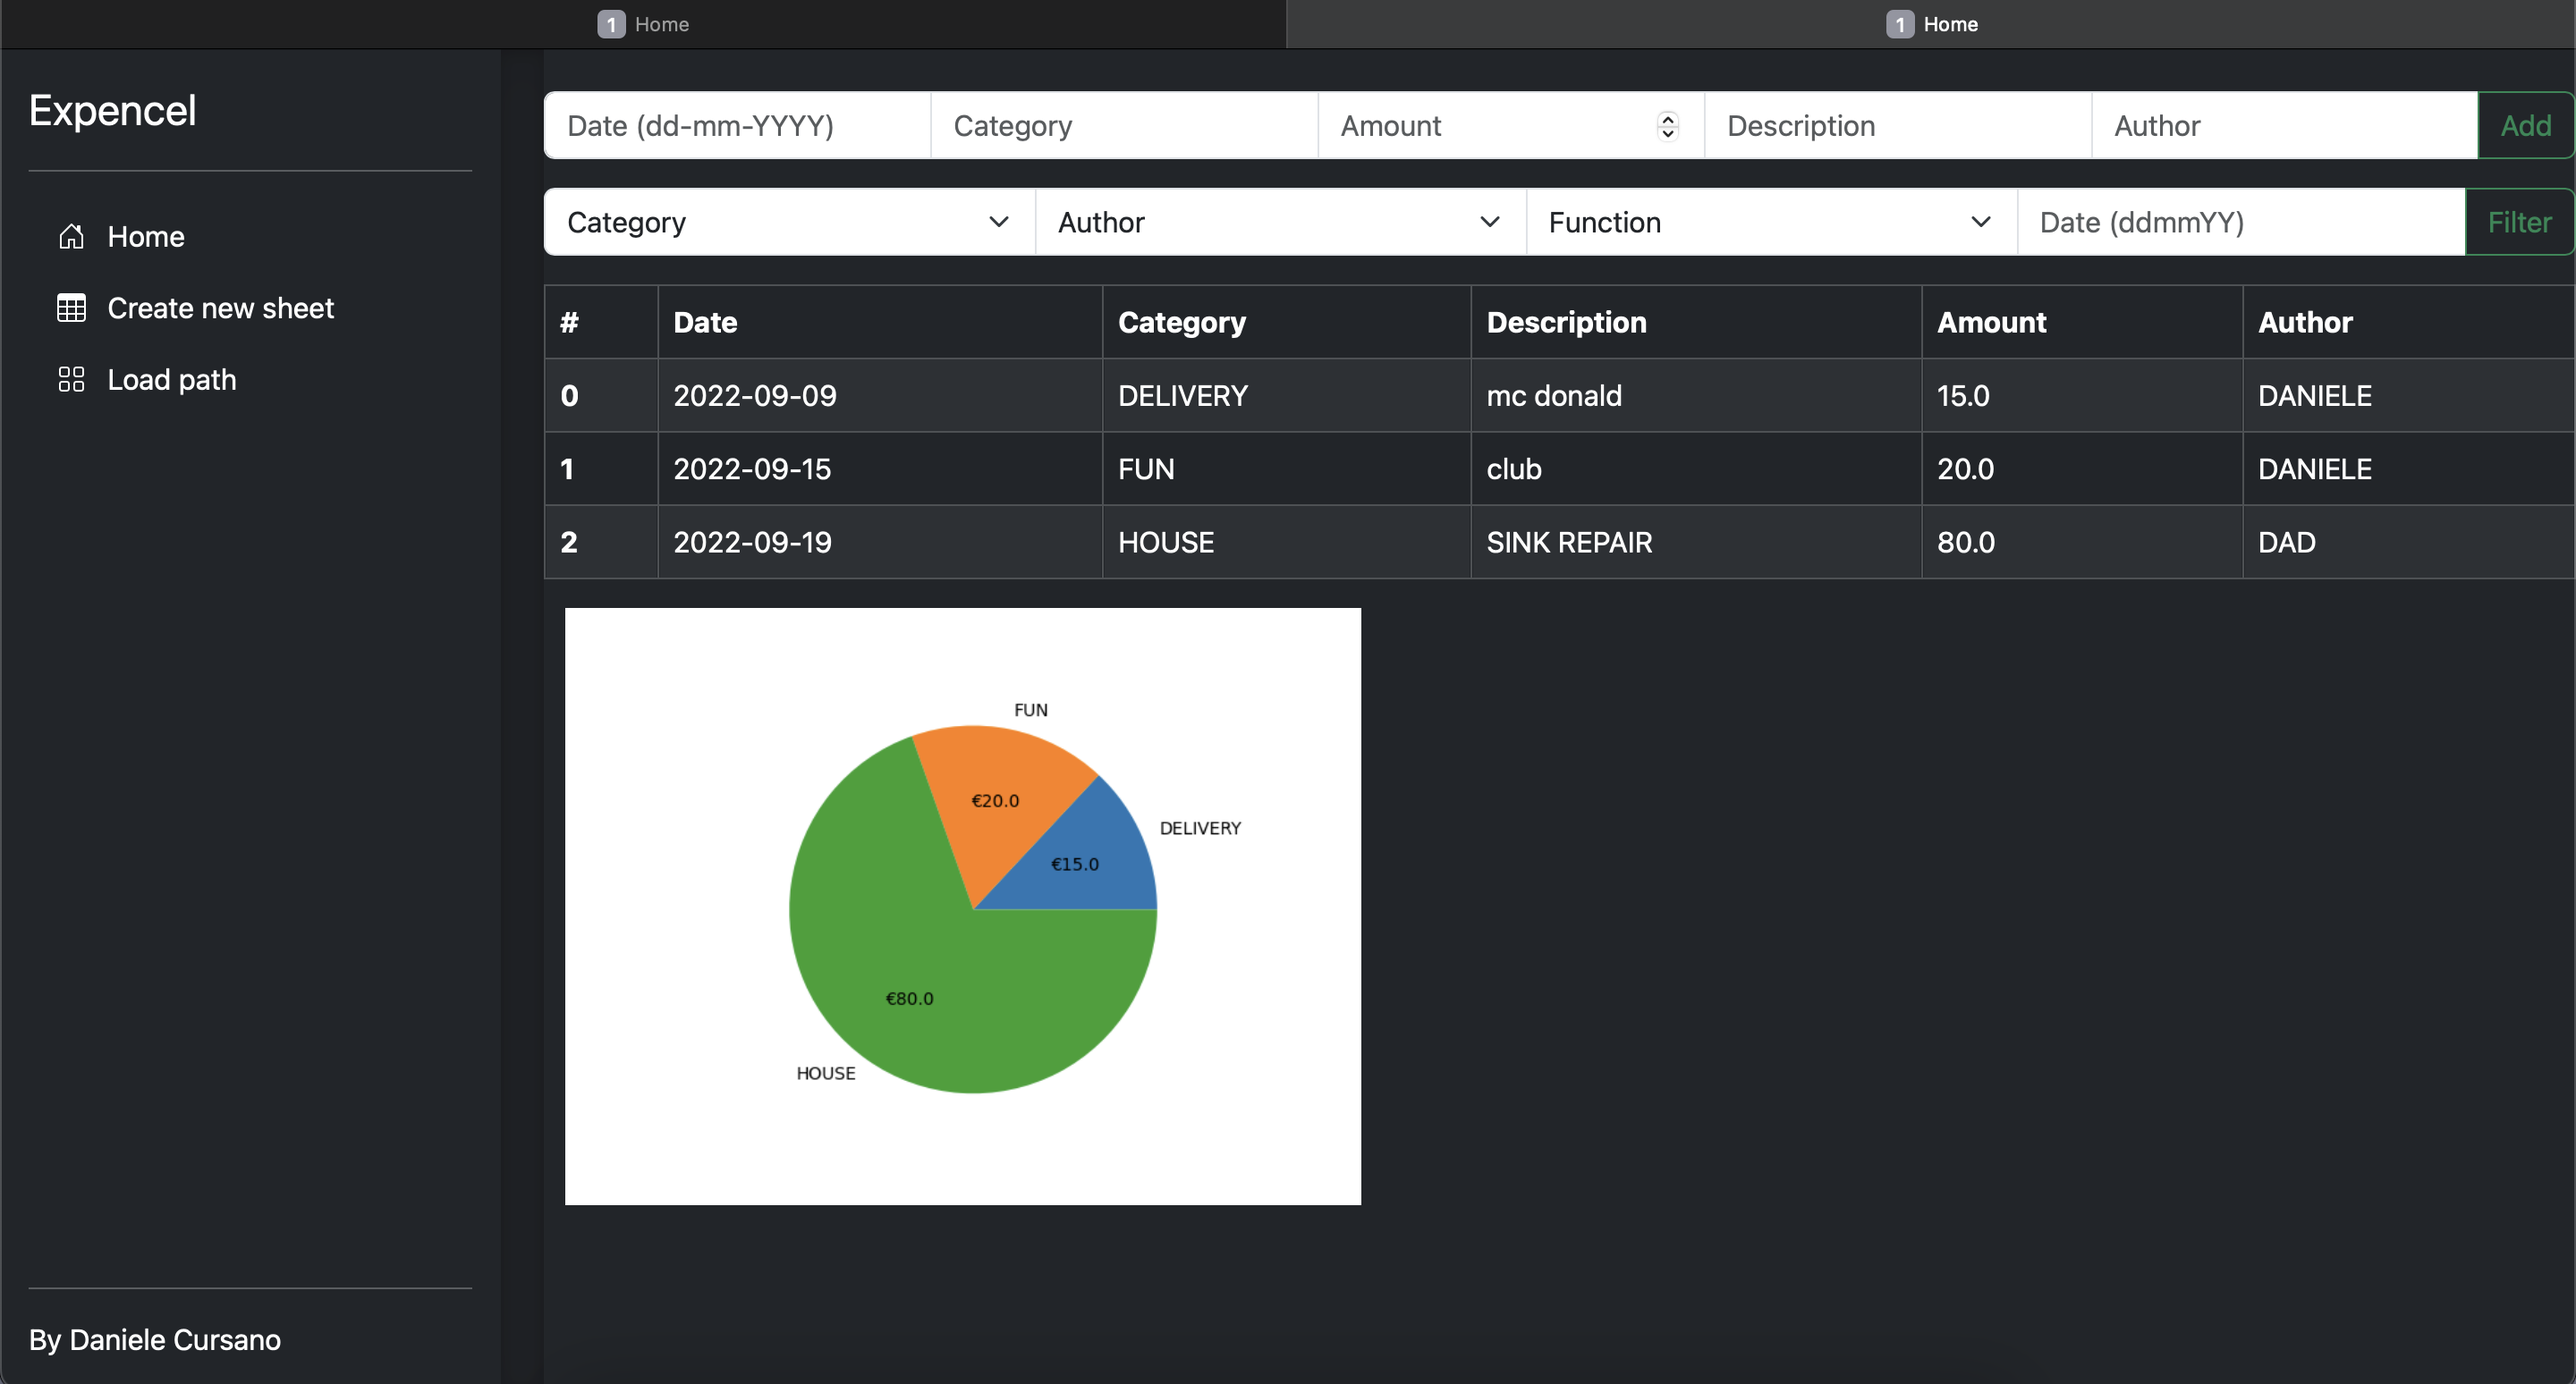
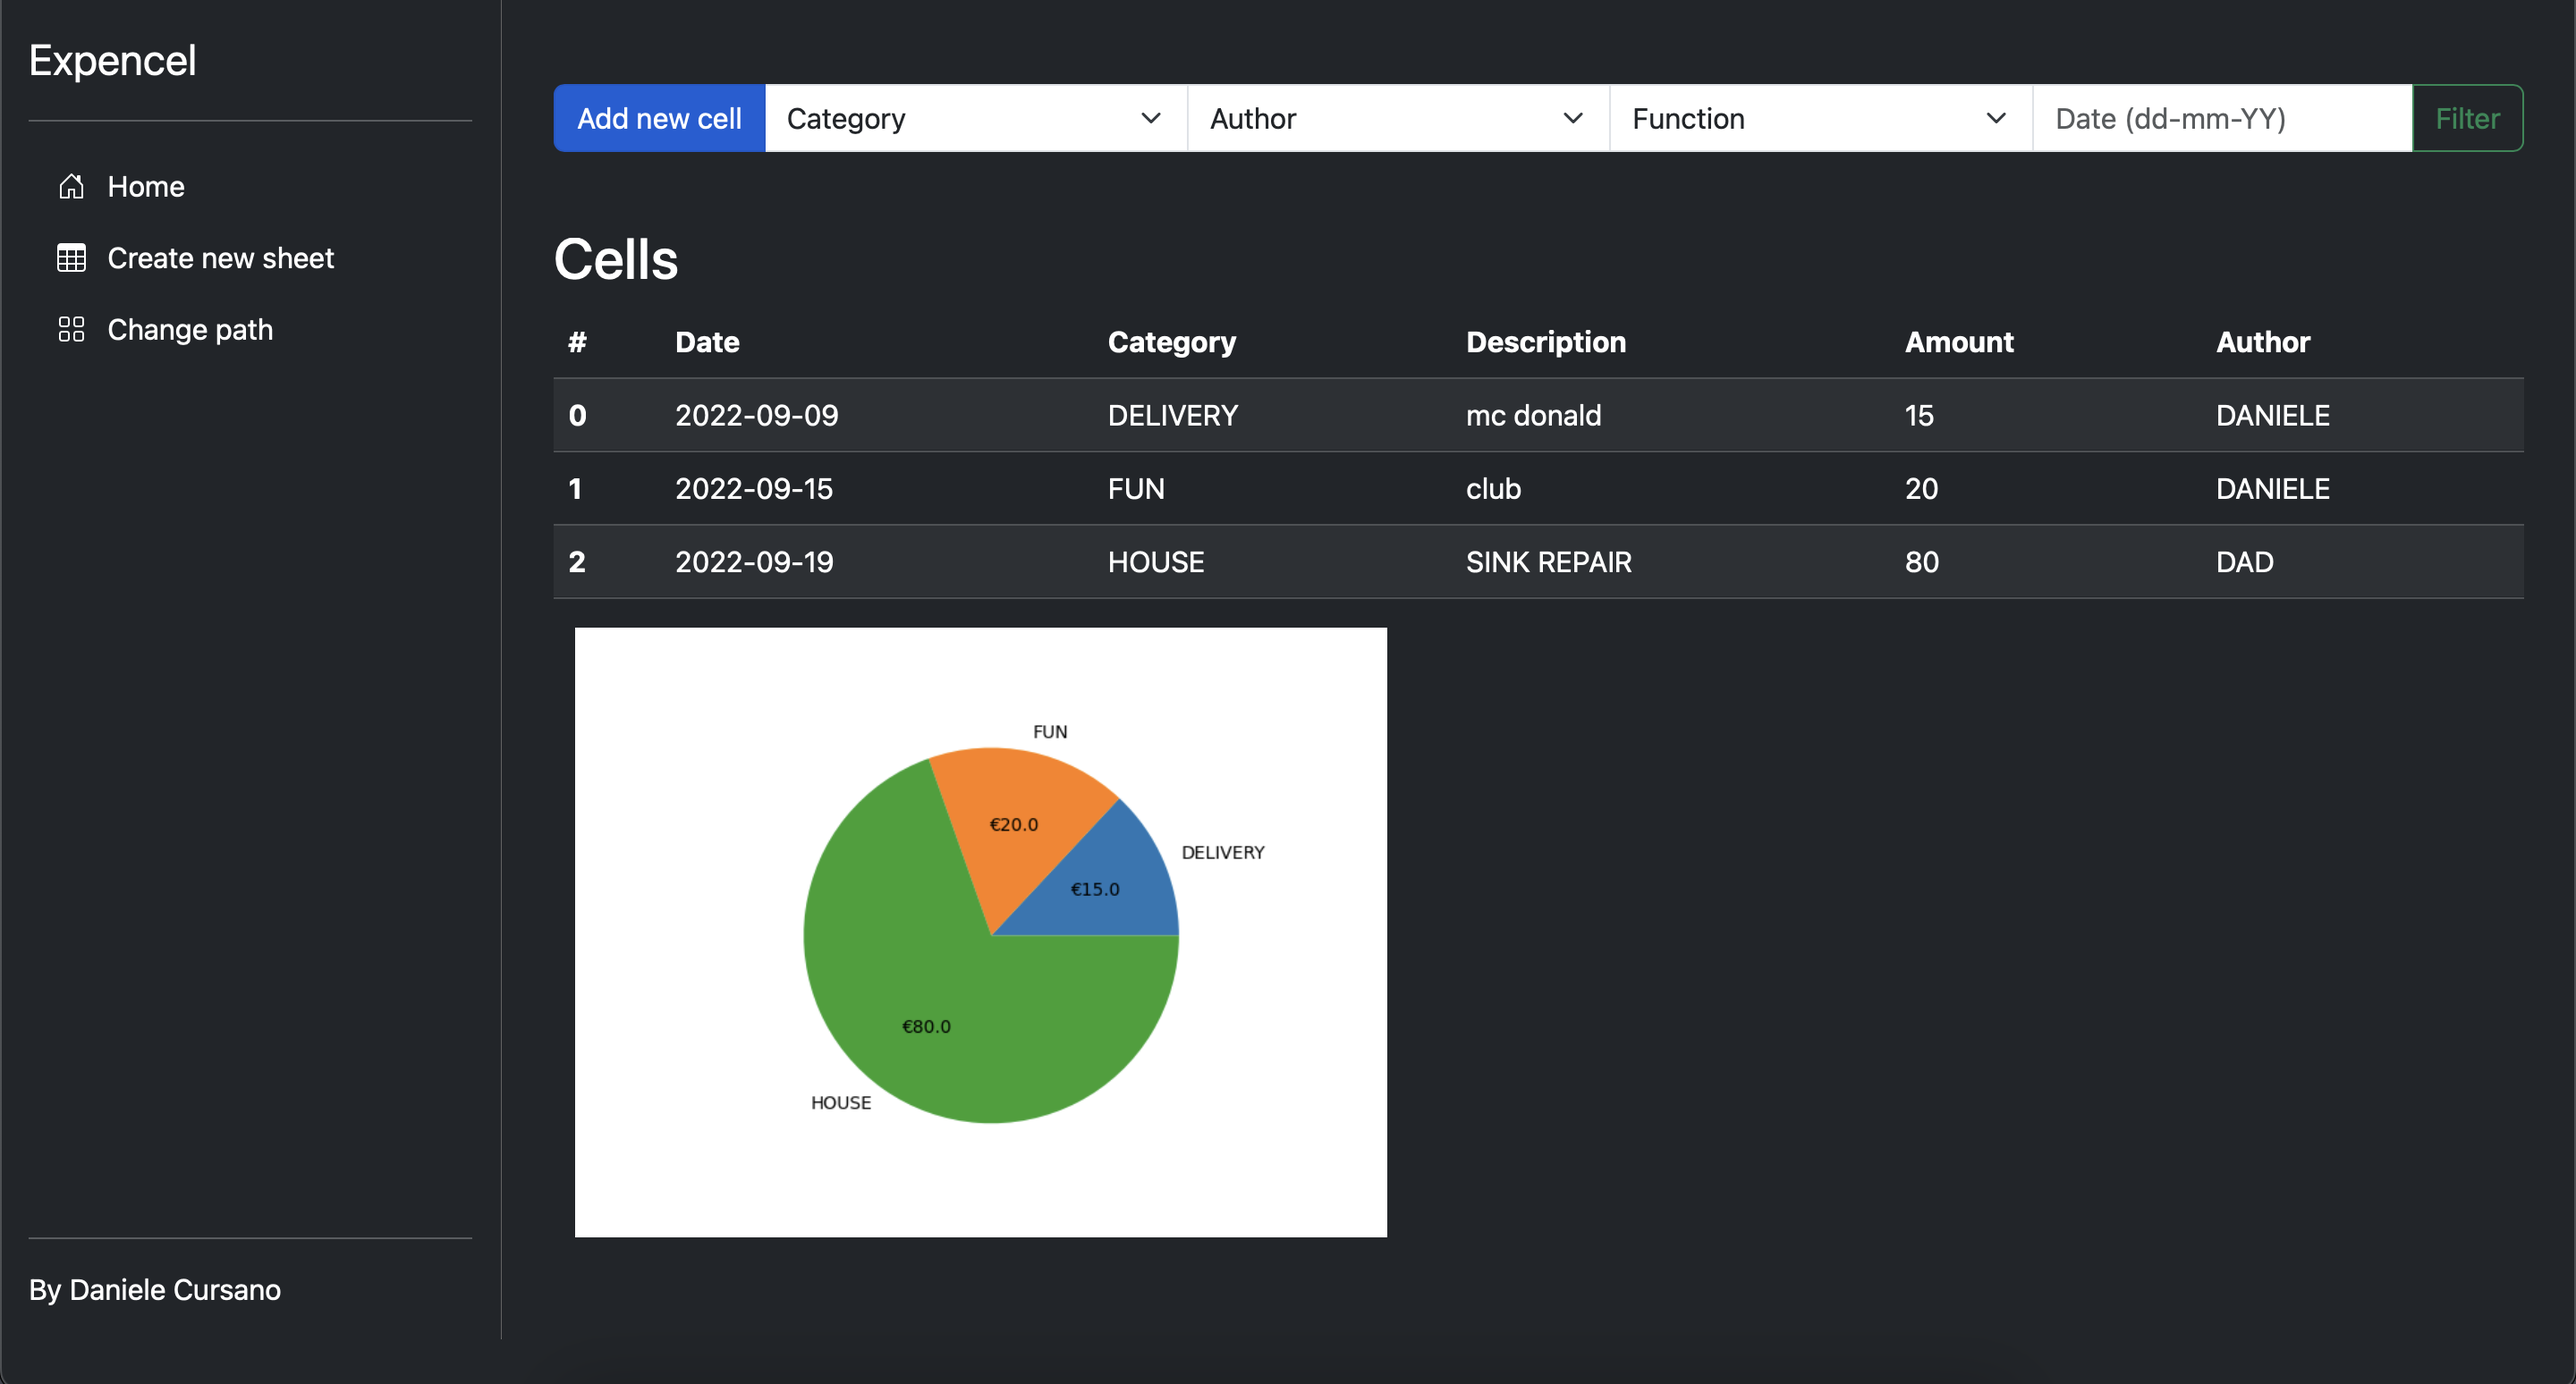
new images

diff --git a/README.md b/README.md
@@ -23,5 +23,5 @@ To use the application:
 
 ![home](https://github.com/danielecursano/expencel/blob/main/images/home.png)
 ![sheet](https://github.com/danielecursano/expencel/blob/main/images/sheet.png)
-![average](https://github.com/danielecursano/expencel/blob/main/images/average.png)
+![add](https://github.com/danielecursano/expencel/blob/main/images/newcell.png)
 ![pie_chart](https://github.com/danielecursano/expencel/blob/main/images/pie.png)
